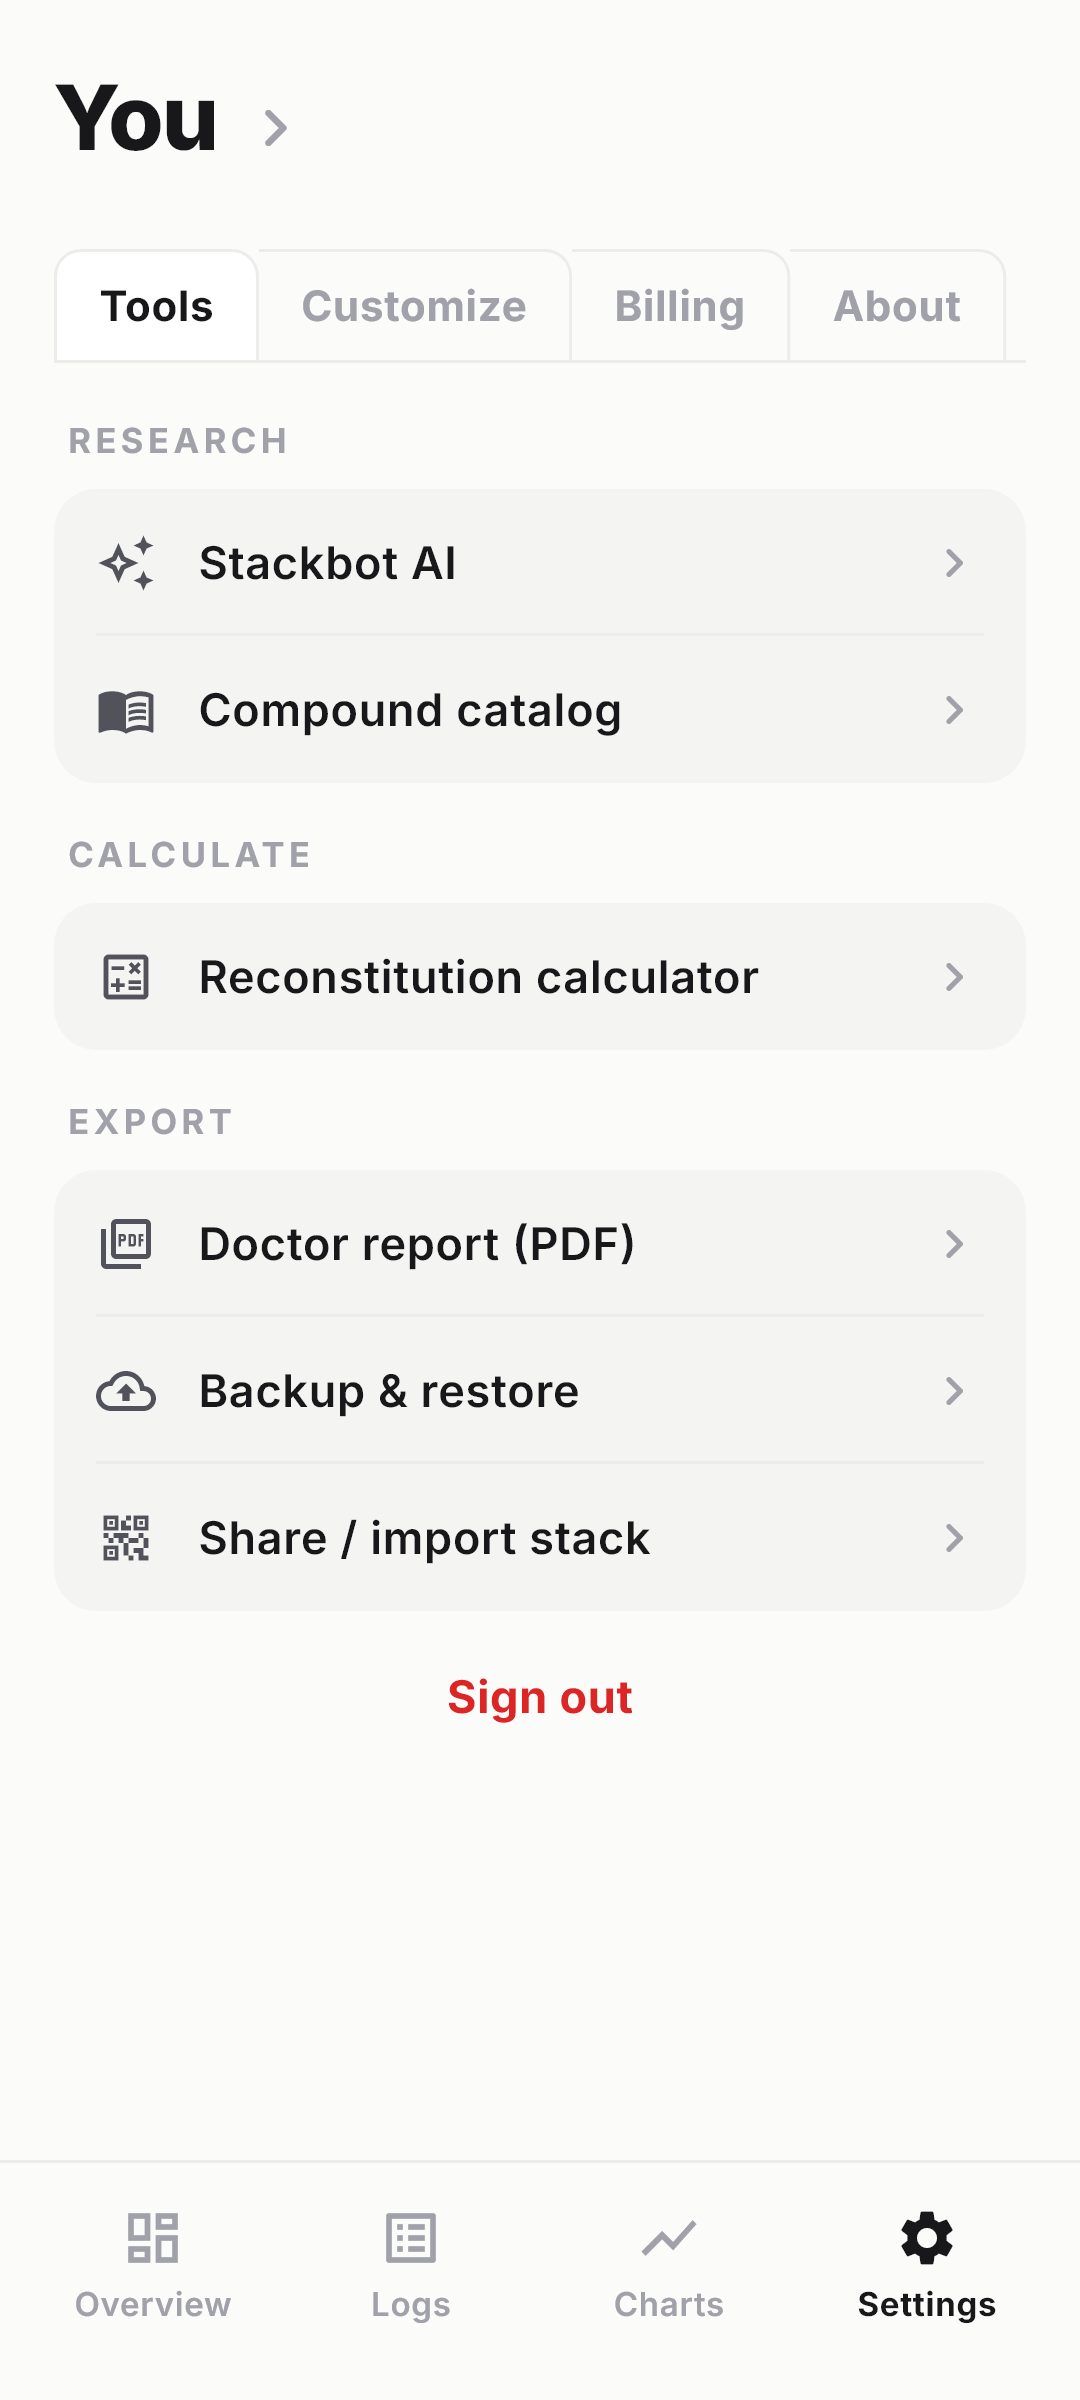
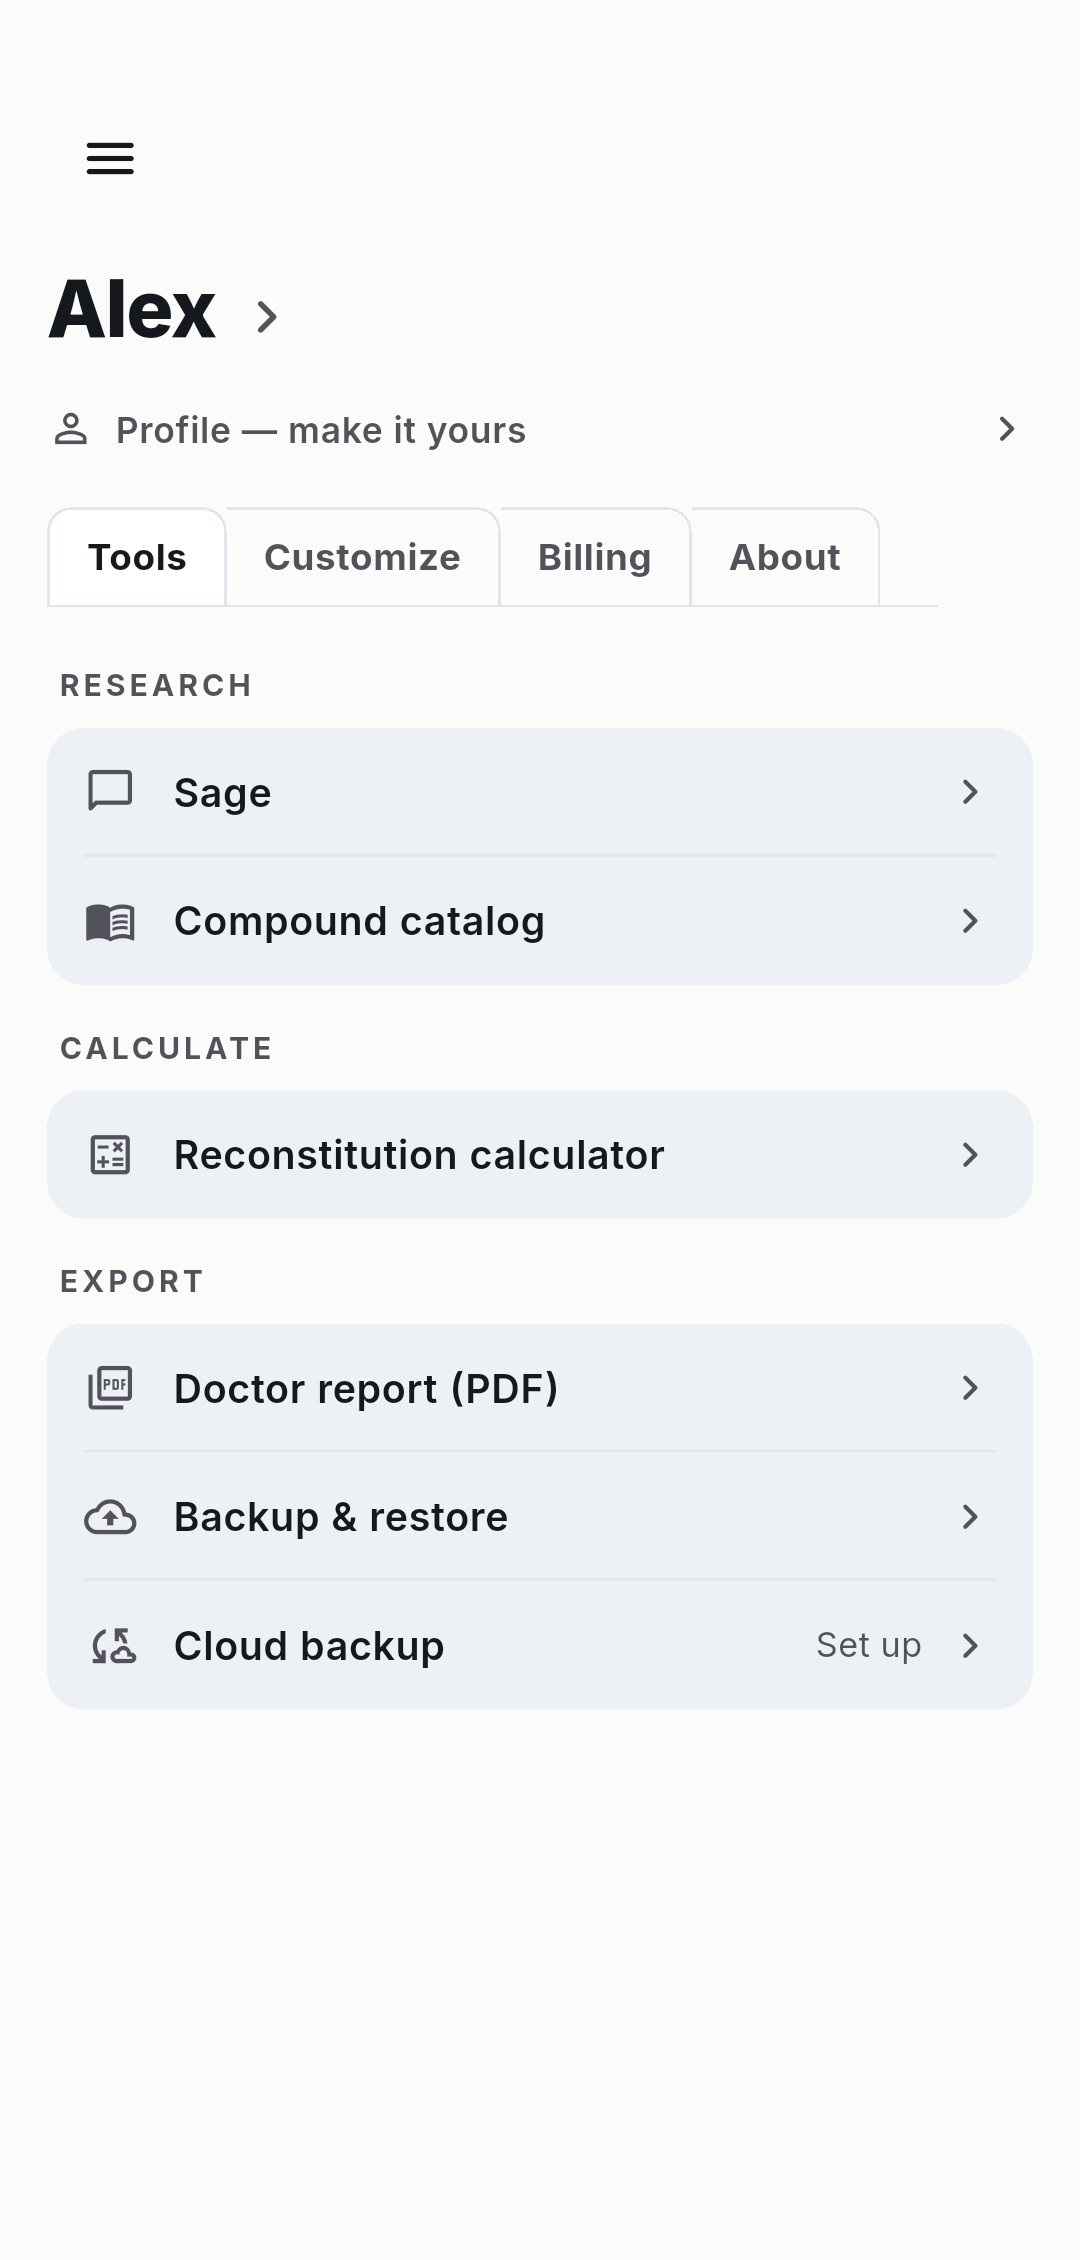
Show the app the site actually ships
The homepage gallery is headed "A look inside — ink on paper, fast and quiet"
and was rendering five screenshots of the pre-rebrand blue UI, complete with the
retired Overview|Logs|Charts|Settings nav bar. The copy and the images had been
arguing with each other since the July refresh.

These came from test/goldens/site_*.png, so the obvious fix was to re-run
`flutter test test/site_screens_test.dart --update-goldens`. That produces
byte-identical output: the studio templates it renders from are themselves
frozen at the old design, so the staleness is upstream of the goldens. Updating
those templates is real work and not something to do in passing.

So these are captures of the current build instead, cropped free of the Android
status bar and gesture pill. Drops the flex-card frame — it lives behind an
optional home block a fresh install can't reach — and adds Inventory, which
carries the better story anyway: what's left in every vial and when it runs out.

NOT PUSHED — this repo auto-deploys to trackyourstack.app on push to main.

diff --git a/assets/js/site.js b/assets/js/site.js
@@ -179,11 +179,11 @@
   var gallery = document.getElementById("gallery");
   if (gallery) {
     var shots = [
-      ["assets/img/screens/today.png", "Today screen — protocol ledger with check-rings"],
+      ["assets/img/screens/today.png", "Today — what's due, what's active, and the streak"],
       ["assets/img/screens/stack.png", "Your stack — compounds grouped by category"],
-      ["assets/img/screens/trends.png", "Charts — weight, lifts, adherence and bloodwork"],
-      ["assets/img/screens/tools.png", "Tools — calculators, reports and backups"],
-      ["assets/img/screens/share.png", "Flex card — share your stack as an image"]
+      ["assets/img/screens/supply.png", "Inventory — what's left in every vial, and when it runs out"],
+      ["assets/img/screens/trends.png", "Charts — weight, lifts, bloodwork and body composition"],
+      ["assets/img/screens/tools.png", "Tools — calculators, reports and backups"]
     ];
     shots.forEach(function (s) {
       var btn = document.createElement("button");
@@ -192,7 +192,7 @@
       img.src = s[0];
       img.alt = s[1];
       img.loading = "lazy";
-      img.width = 1080; img.height = 2400;
+      img.width = 1080; img.height = 2260;
       btn.appendChild(img);
       btn.addEventListener("click", function () { openLB(s[0], s[1]); });
       gallery.appendChild(btn);
